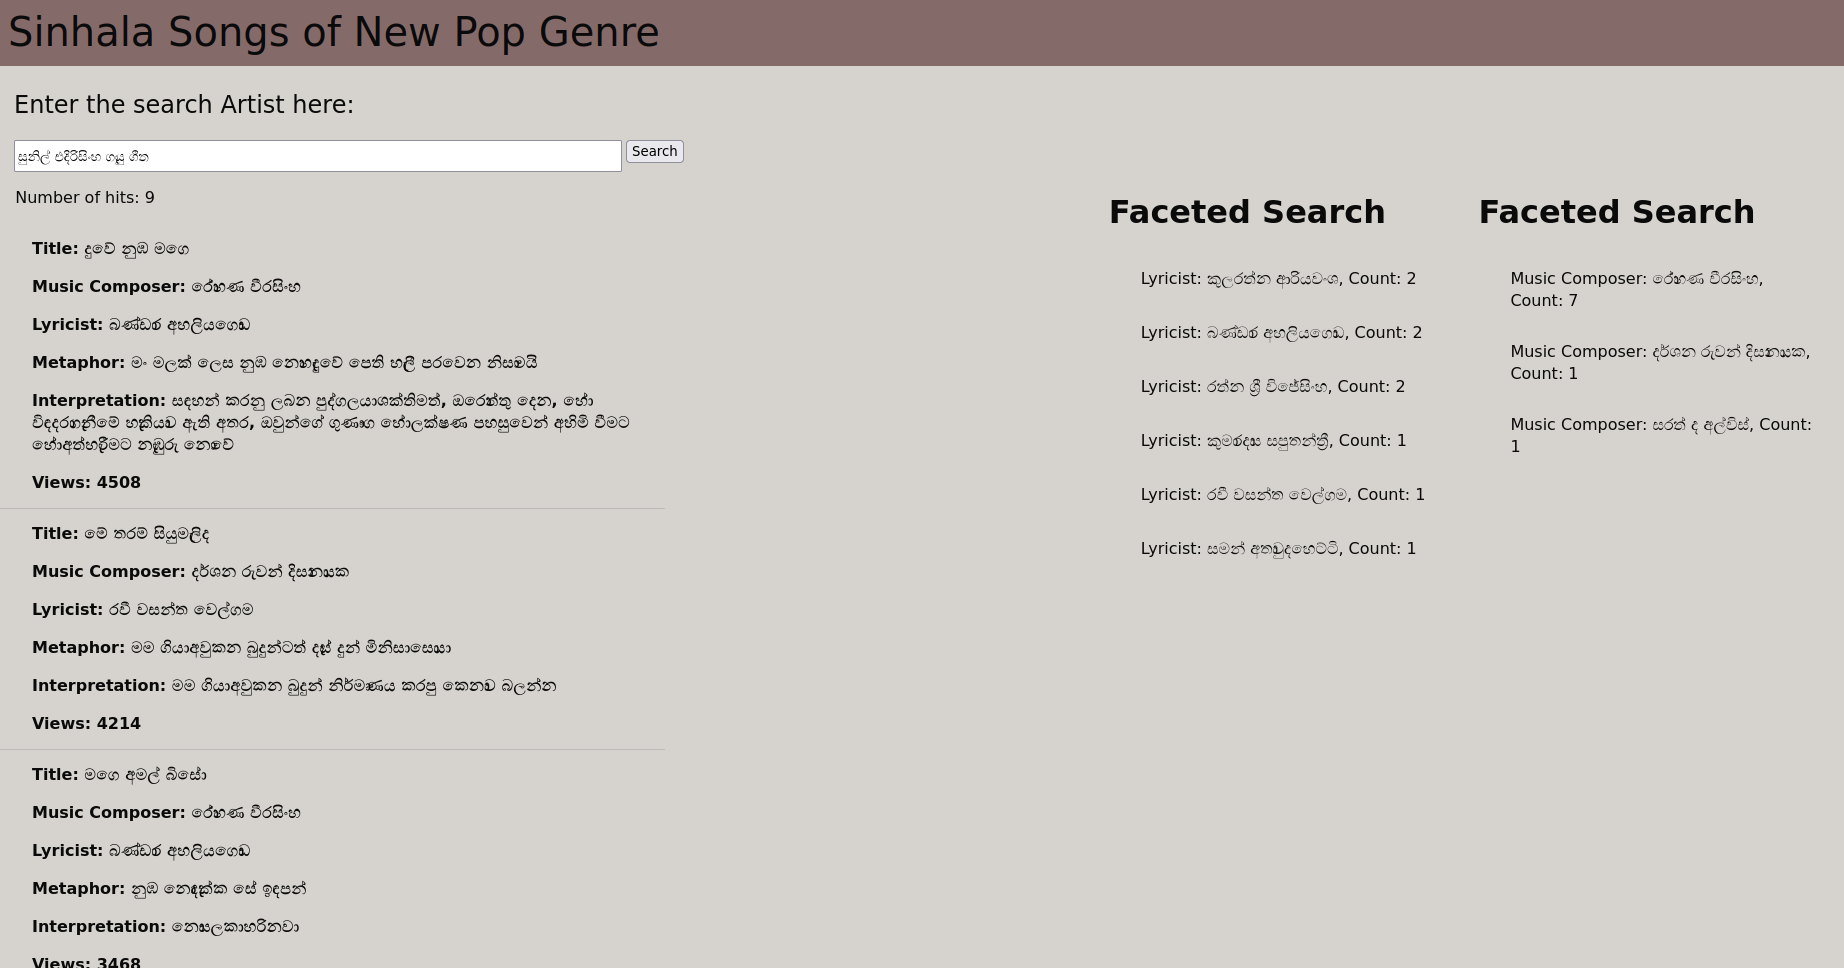
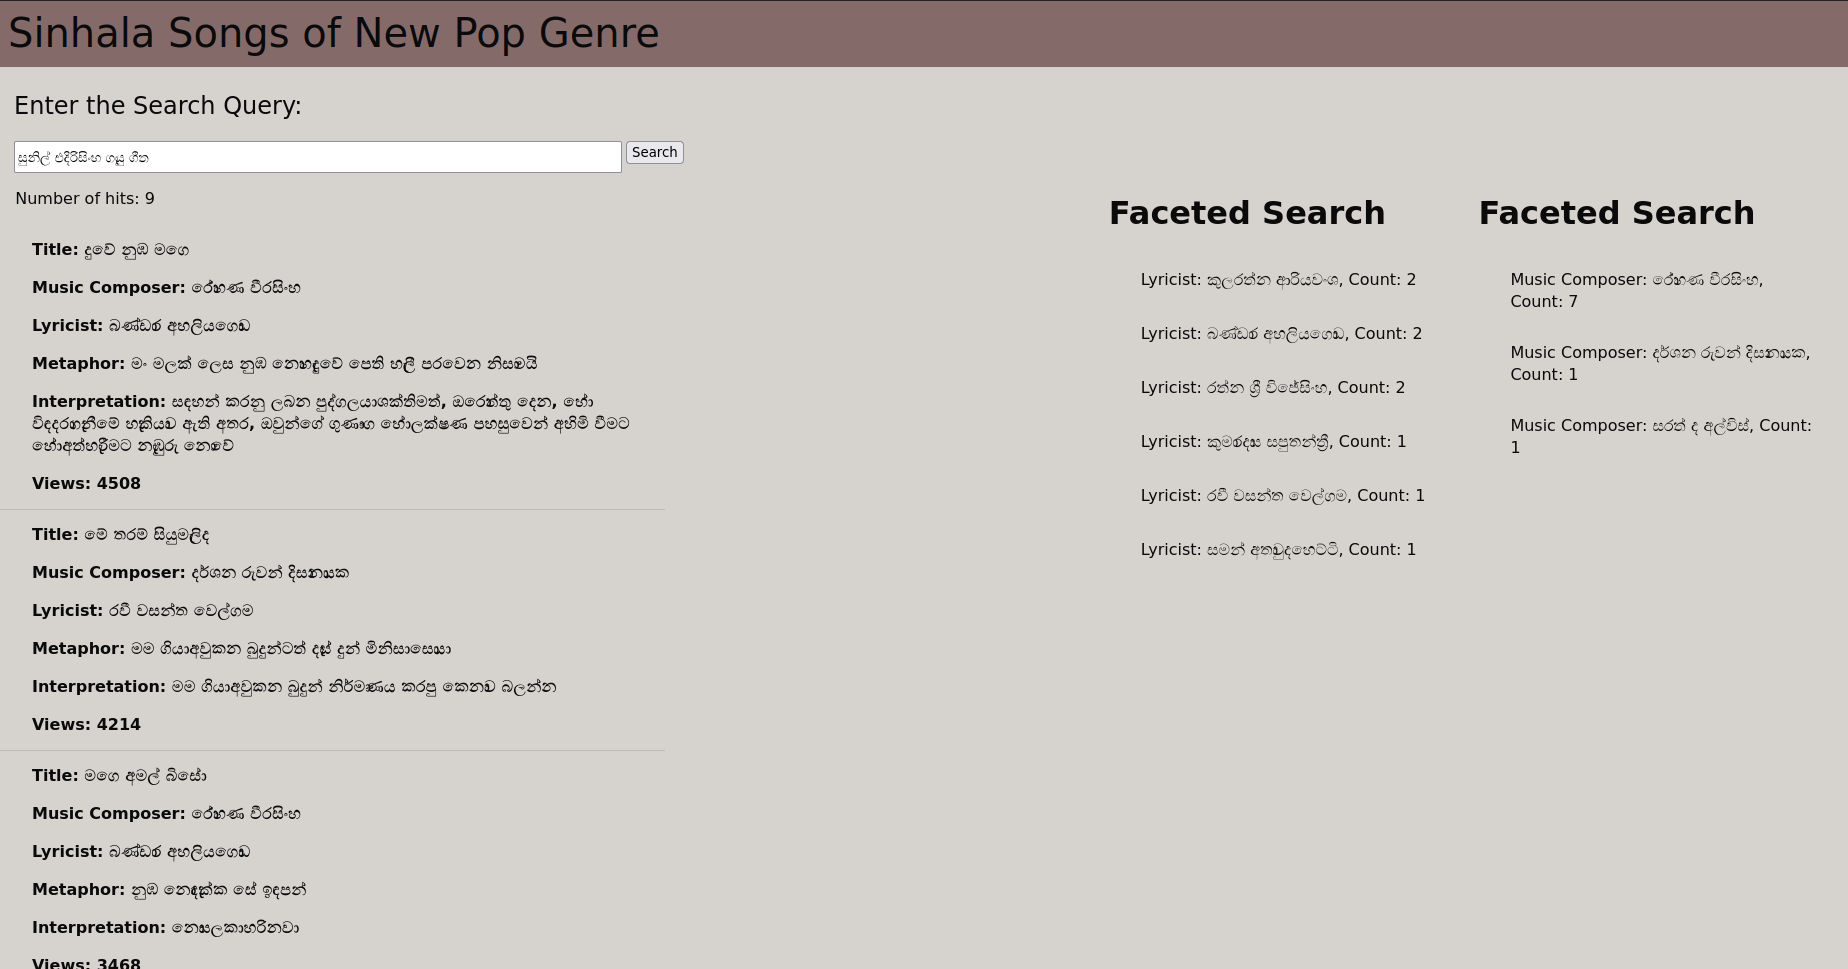
query updated

diff --git a/client/src/App.js b/client/src/App.js
@@ -3,7 +3,7 @@ import { useState } from 'react';
 import './App.css';
 
 const App = () => {
-  const [chosenArtist, setchosenArtist] = useState(null);
+  const [chosen, setchosen] = useState(null);
   const [documents, setDocuments] = useState(null);
   const [lyricistAgg, setLyricistAgg] = useState(null);
   const [musicComposerAgg, setMusicComposerAgg] = useState(null);
@@ -14,7 +14,7 @@ const App = () => {
       url: 'http://localhost:3002/results',
       params: {
      
-        artist: chosenArtist,
+        para: chosen,
    
       },
     };
@@ -40,7 +40,7 @@ const App = () => {
       </nav>
       <p className='directions'>
         {' '}
-        Enter a query by using the name of the Artist:
+        Enter the Search Query:
       </p>
       <div className='main'>
         <div className='type-selector'>
@@ -53,8 +53,8 @@ const App = () => {
                     className='form'
                     type='text'
                     placeholder='Full text search'
-                    value={chosenArtist}
-                    onChange={(e) => setchosenArtist(e.target.value)}
+                    value={chosen}
+                    onChange={(e) => setchosen(e.target.value)}
                   />
                 </label>
               </form>

diff --git a/server/server.js b/server/server.js
@@ -13,7 +13,7 @@ app.use(cors());
 
 app.get('/results', (req, res) => {
 
-  const passedArtist = req.query.artist;
+  const passed = req.query.para;
 
 
   async function sendESRequest() {
@@ -27,7 +27,7 @@ app.get('/results', (req, res) => {
               {
                 match: 
                     { artist: 
-                        { query: passedArtist,
+                        { query: passed,
                             operator: "AND"
                         } 
                     },

diff --git a/README.md b/README.md
@@ -17,7 +17,11 @@ The search engine will be developed to search about *Sinhala songs in the new po
 ## Main functions of the system
 - **Full Text Search**\
     Search a song by name of the artist\
-    Example - සුනිල් එදිරිසිංහ ගැයු ගීත, සුනිල් එදිරිසිංහ කිව් ගී
+    Example - සුනිල් එදිරිසිංහ ගැයු ගීත, සුනිල් එදිරිසිංහ කිව් ගී\
+    Search a song by name of the musicComposer\
+    Example - තිළිණ රුහුණුගේ විසින් සංගීතවත් කළ ගීත\
+    Search a song by name of the lyricist\
+    Example - යමුනා මාලනී පෙරේරා රචනා කළ සිංදු, ධර්මරත්න පෙරේරා විසින් රචිත ගීත
 - **Faceted Search**\
     Filter search results based on the music composer and the lyricist
 - **Sort by Views**
